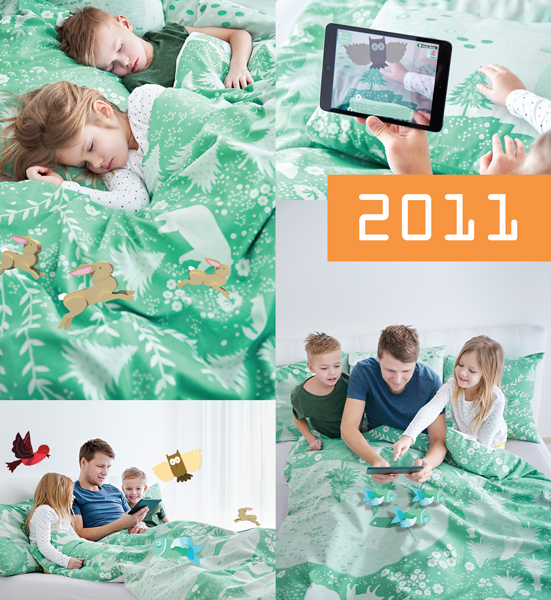
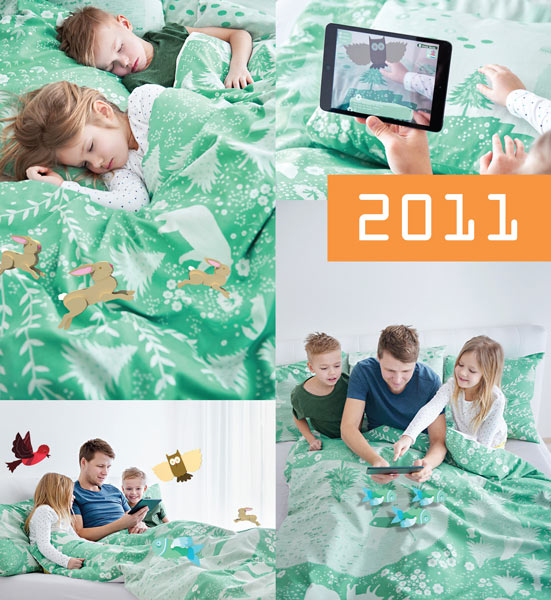
resized year opening photos

diff --git a/md/DEF_Pieken_en_dalen_150701.md b/md/DEF_Pieken_en_dalen_150701.md
@@ -2347,7 +2347,7 @@ creatie. Op basis van de evaluatie door het topteam Creatieve Industrie
 over de periode 2011-2013 wordt hieronder een update geschetst van de
 verschillende agendaonderdelen[^65].
 
-![](imgs/Infographics/Agenda-topteam-creatieve-industrie.jpg "Agenda topteam Creatieve Industrie")
+![](imgs/resized-bijfotos/Agenda-topteam-creatieve-industrie.png "Agenda topteam Creatieve Industrie")
 
 &nbsp;
 
@@ -3862,7 +3862,7 @@ stad Utrecht via de Economic Board Utrecht), kennisinstellingen
 (waaronder TNO) en het bedrijfsleven, is de ambitie te groeien naar een
 markt ter waarde van ruim 10 miljard euro in 2015[^92].
 
-![](imgs/resized-bijfotos/Moodbot.tif "Moodboot")
+![](imgs/resized-bijfotos/Moodbot.jpg "Moodbot")
 
 **Moodbot**
 Moodbot werkt als een interactieve coach, die mensen met een
